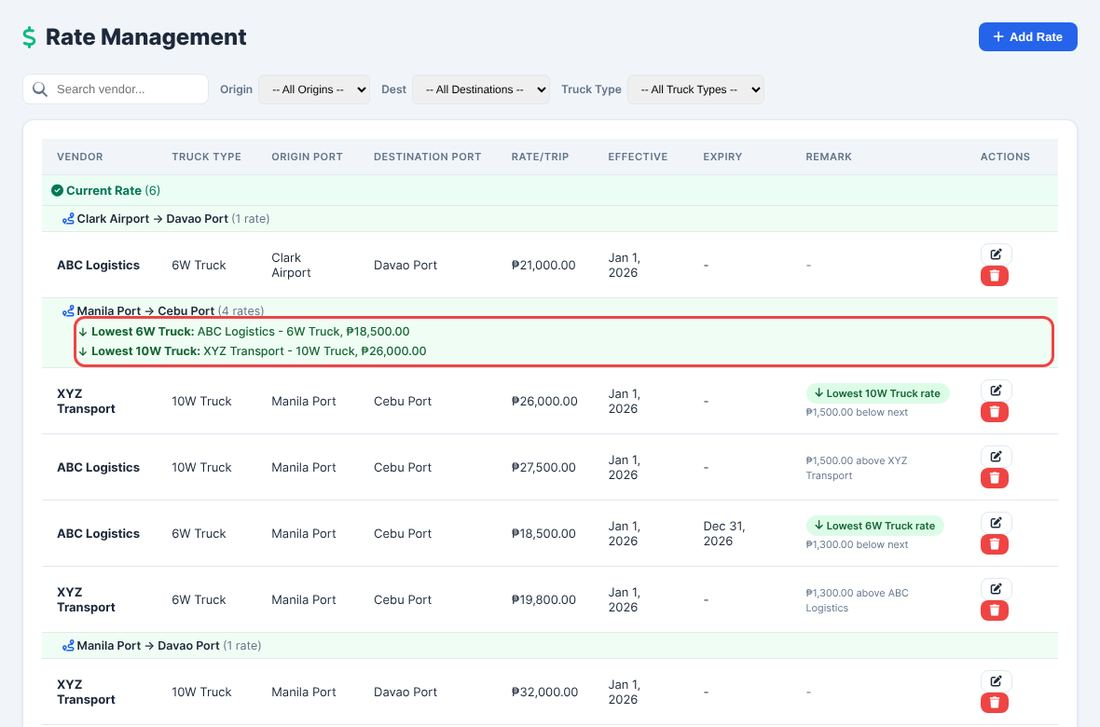
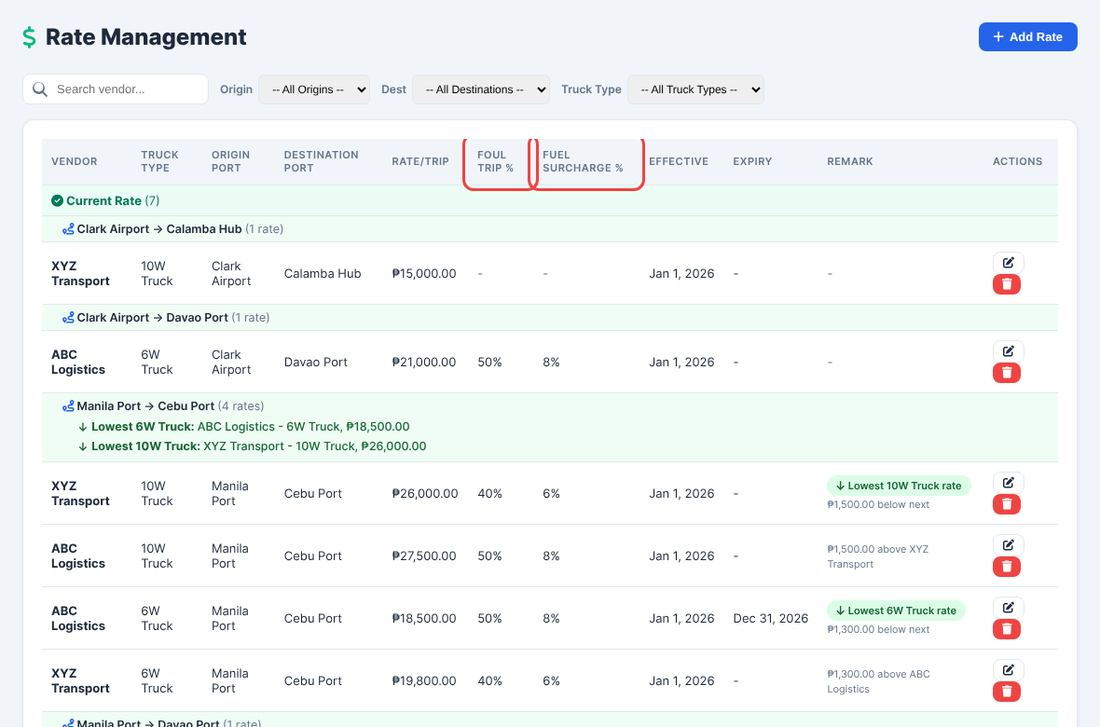
Rate Management: show Foul Trip % and Fuel Surcharge % columns
Widen group/empty rows to 11 columns, tidy header wrapping, and refresh the
User Guide text and screenshot.

diff --git a/backend/static/index.html b/backend/static/index.html
@@ -97,6 +97,11 @@ tr:hover td{background:#F8FAFC}
 .pend-vsug small{display:block;color:var(--muted);font-size:12px;margin-top:2px}
 .pend-vsug.ok{background:#ECFDF5;border:1px solid #A7F3D0;color:#065F46}.pend-vsug.ok i{color:#D97706;margin-top:2px}
 .pend-vsug.muted{background:var(--bg);border:1px solid var(--bdr);color:var(--txt)}.pend-vsug.muted i{color:var(--muted);margin-top:2px}
+#pg-rates th{white-space:normal;padding:10px 10px;line-height:1.3}
+#rTbl td{padding:10px 10px}
+#rTbl td:nth-child(n+5):nth-child(-n+9){white-space:nowrap}
+#rTbl td:nth-child(10){min-width:160px}
+#rTbl td:nth-child(10) .badge{white-space:nowrap}
 .stat-click{cursor:pointer}
 .stat-click:hover{box-shadow:var(--sh2);transform:translateY(-1px)}
 .stat-click.on{border-color:var(--pri);box-shadow:0 0 0 3px rgba(37,99,235,.15)}
@@ -339,7 +344,7 @@ body.scan-mode .layout{display:none}
 <section class="pg" id="pg-rates">
 <div class="pg-hdr"><h1><i class="fas fa-dollar-sign" style="color:var(--ok)"></i> Rate Management</h1><div class="acts"><button class="btn btn-p" onclick="showRateModal()"><i class="fas fa-plus"></i> Add Rate</button></div></div>
 <div class="fb"><input type="text" class="s-input" id="rSrch" placeholder="Search vendor..." oninput="loadRates()" style="width:200px"><div class="fg2"><label>Origin</label><select class="f-input" id="rOrg" onchange="loadRates()"></select></div><div class="fg2"><label>Dest</label><select class="f-input" id="rDst" onchange="loadRates()"></select></div><div class="fg2"><label>Truck Type</label><select class="f-input" id="rTT" onchange="loadRates()"></select></div></div>
-<div class="card"><div class="card-b"><div class="tw"><table><thead><tr><th>Vendor</th><th>Truck Type</th><th>Origin Port</th><th>Destination Port</th><th>Rate/Trip</th><th>Effective</th><th>Expiry</th><th>Remark</th><th>Actions</th></tr></thead><tbody id="rTbl"></tbody></table></div></div></div>
+<div class="card"><div class="card-b"><div class="tw"><table><thead><tr><th>Vendor</th><th>Truck Type</th><th>Origin Port</th><th>Destination Port</th><th>Rate/Trip</th><th>Foul Trip %</th><th>Fuel Surcharge %</th><th>Effective</th><th>Expiry</th><th>Remark</th><th>Actions</th></tr></thead><tbody id="rTbl"></tbody></table></div></div></div>
 </section>
 
 <!-- Vendor Evaluation -->
@@ -624,7 +629,7 @@ body.scan-mode .layout{display:none}
 <li><strong>Drop 2, 3, &hellip;</strong> are extra stops on the same trip, not separate trips: they are priced on the card of drop 1's destination &mdash; its <strong>Additional Destination Drop</strong> rate when the stop is listed there, otherwise its <strong>Default Rate</strong> (even when the stop is the Main Destination again). A later drop never gets Rate/Trip;</li>
 <li>a drop 1 whose destination has no card of its own &rarr; a card listing it as an Additional Destination Drop, otherwise the Default Rate.</li>
 </ul>The <strong>Foul Trip %</strong> (Foul Trips) and <strong>Fuel Surcharge %</strong> (Delivered requests only) are applied to that same rate.</li>
-<li>Use the search box and the Origin, Dest and <strong>Truck Type</strong> filters to find a rate; edit or delete it from the Actions column. Rates are grouped by origin &rarr; destination. When a pair has more than one rate, its heading lists the lowest rate for each truck type on its own line (e.g. <em>Lowest 10W: NJV - 10W, ₱15,000.00</em>), and the <strong>Remark</strong> column marks the cheapest vendor per truck type.</li>
+<li>Use the search box and the Origin, Dest and <strong>Truck Type</strong> filters to find a rate; edit or delete it from the Actions column. The table shows each rate's Rate/Trip, <strong>Foul Trip %</strong>, <strong>Fuel Surcharge %</strong>, Effective and Expiry dates. Rates are grouped by origin &rarr; destination. When a pair has more than one rate, its heading lists the lowest rate for each truck type on its own line (e.g. <em>Lowest 10W: NJV - 10W, ₱15,000.00</em>), and the <strong>Remark</strong> column marks the cheapest vendor per truck type.</li>
 <li>Rates feed the vendor sorting on Pending Allocation (cheapest first), the costs in Cost Analysis and the Foul Trip Cost on Foul Trip Approval.</li>
 </ol>
 <div class="g-shots"><figure class="g-shot"><a href="/guide/10-rates.jpg" target="_blank" rel="noopener" title="Open full size"><img src="/guide/10-rates.jpg" alt="Rate Management grouped by origin  destination, with the Truck Type filter (outlined) and the Remark column naming the cheapest vendor." loading="lazy"></a><figcaption><i class="fas fa-image"></i> Rate Management grouped by origin &rarr; destination, with the <strong>Truck Type</strong> filter (outlined) and the Remark column naming the cheapest vendor.</figcaption></figure><figure class="g-shot"><a href="/guide/10b-rate-form.jpg" target="_blank" rel="noopener" title="Open full size"><img src="/guide/10b-rate-form.jpg" alt="Add Rate form: the Main Destination is greyed out in the Additional Destination Drops list." loading="lazy"></a><figcaption><i class="fas fa-image"></i> Add Rate form: the Main Destination is greyed out in the Additional Destination Drops list.</figcaption></figure></div>
@@ -2560,6 +2565,7 @@ async function saveTruck(id){
 async function delTruck(id){if(!confirm('Delete truck?'))return;try{const res=await fetch('/api/trucks/'+id,{method:'DELETE'});if(!res.ok){const e=await res.json().catch(()=>({}));toast(e.detail||'Failed to delete','error');return}toast('Deleted');loadFleet()}catch(e){toast('Failed','error')}}
 
 // Rates
+function ratePct(v){if(v===null||v===undefined||v==='')return'<span style="color:var(--muted)">-</span>';const n=+v;return isNaN(n)?esc(String(v)):(Math.round(n*100)/100)+'%'}
 async function loadRates(){
   try{
     const v=document.getElementById('rSrch').value;
@@ -2575,7 +2581,7 @@ async function loadRates(){
     if(ttf){for(let i=data.length-1;i>=0;i--){if(String(data[i].truck_type_id)!==String(ttf))data.splice(i,1)}}
     const tb=document.getElementById('rTbl');
     const today=new Date().toISOString().slice(0,10);
-    const rowHtml=(r,remark)=>'<tr><td><strong>'+esc(r.vendor_name||'')+'</strong></td><td>'+esc(r.truck_type_name||'')+'</td><td>'+esc(r.origin_port_name||'')+'</td><td>'+esc(r.destination_port_name||'')+'</td><td>₱'+fmtN(r.rate_per_trip)+'</td><td>'+fmtDDate(r.effective_date)+'</td><td>'+fmtDDate(r.expiry_date)+'</td><td>'+(remark||'<span style="color:var(--muted)">-</span>')+'</td><td><button class="btn btn-sm btn-o" onclick="editRate('+JSON.stringify(r).replace(/"/g,'&quot;')+')"><i class="fas fa-edit"></i></button> <button class="btn btn-sm btn-d" onclick="delRate('+r.id+')"><i class="fas fa-trash"></i></button></td></tr>';
+    const rowHtml=(r,remark)=>'<tr><td><strong>'+esc(r.vendor_name||'')+'</strong></td><td>'+esc(r.truck_type_name||'')+'</td><td>'+esc(r.origin_port_name||'')+'</td><td>'+esc(r.destination_port_name||'')+'</td><td>₱'+fmtN(r.rate_per_trip)+'</td><td>'+ratePct(r.foul_trip_pct)+'</td><td>'+ratePct(r.fuel_surcharge_pct)+'</td><td>'+fmtDDate(r.effective_date)+'</td><td>'+fmtDDate(r.expiry_date)+'</td><td>'+(remark||'<span style="color:var(--muted)">-</span>')+'</td><td><button class="btn btn-sm btn-o" onclick="editRate('+JSON.stringify(r).replace(/"/g,'&quot;')+')"><i class="fas fa-edit"></i></button> <button class="btn btn-sm btn-d" onclick="delRate('+r.id+')"><i class="fas fa-trash"></i></button></td></tr>';
     /* Second grouping: rates sharing an origin -> destination pair sit together.
        When a pair has more than one rate, the Remark column names the cheapest
        vendor for each truck type (rates of different truck types are not compared). */
@@ -2608,7 +2614,7 @@ async function loadRates(){
           lows.sort((a,b)=>a.tt.localeCompare(b.tt,undefined,{numeric:true}));
           if(lows.length)headExtra='<div class="rate-lows">'+lows.map(l=>'<div class="rate-low"><i class="fas fa-arrow-down"></i> <strong>Lowest '+l.tt+':</strong> '+l.txt+'</div>').join('')+'</div>';
         }
-        out+='<tr><td colspan="9" style="background:'+accent+';font-weight:600;padding:6px 10px 6px 22px;font-size:12.5px"><i class="fas fa-route" style="color:var(--pri)"></i> '+esc(g[0].origin_port_name||'-')+' &rarr; '+esc(g[0].destination_port_name||'-')+' <span style="font-weight:400;color:var(--muted)">('+g.length+' rate'+(g.length>1?'s':'')+')</span>'+headExtra+'</td></tr>';
+        out+='<tr><td colspan="11" style="background:'+accent+';font-weight:600;padding:6px 10px 6px 22px;font-size:12.5px"><i class="fas fa-route" style="color:var(--pri)"></i> '+esc(g[0].origin_port_name||'-')+' &rarr; '+esc(g[0].destination_port_name||'-')+' <span style="font-weight:400;color:var(--muted)">('+g.length+' rate'+(g.length>1?'s':'')+')</span>'+headExtra+'</td></tr>';
         g.slice().sort((x,y)=>String(x.truck_type_name||'').localeCompare(String(y.truck_type_name||''))||(+x.rate_per_trip||0)-(+y.rate_per_trip||0)).forEach(r=>{out+=rowHtml(r,remarks.get(r.id))});
       });
       return out;
@@ -2618,15 +2624,15 @@ async function loadRates(){
       const hist=data.filter(r=>r.expiry_date&&String(r.expiry_date).slice(0,10)<today);
       let html='';
       if(cur.length){
-        html+='<tr><td colspan="9" style="background:#ECFDF5;font-weight:700;color:#047857;padding:8px 10px"><i class="fas fa-check-circle"></i> Current Rate <span style="font-weight:400;color:var(--mut)">('+cur.length+')</span></td></tr>';
+        html+='<tr><td colspan="11" style="background:#ECFDF5;font-weight:700;color:#047857;padding:8px 10px"><i class="fas fa-check-circle"></i> Current Rate <span style="font-weight:400;color:var(--mut)">('+cur.length+')</span></td></tr>';
         html+=groupHtml(cur,'#F0FDF4');
       }
       if(hist.length){
-        html+='<tr><td colspan="9" style="background:#FEF2F2;font-weight:700;color:#B91C1C;padding:8px 10px"><i class="fas fa-history"></i> Historical Rate <span style="font-weight:400;color:#B91C1C;opacity:.8">('+hist.length+')</span></td></tr>';
+        html+='<tr><td colspan="11" style="background:#FEF2F2;font-weight:700;color:#B91C1C;padding:8px 10px"><i class="fas fa-history"></i> Historical Rate <span style="font-weight:400;color:#B91C1C;opacity:.8">('+hist.length+')</span></td></tr>';
         html+=groupHtml(hist,'#FFF7F7');
       }
       tb.innerHTML=html;
-    }else{tb.innerHTML='<tr><td colspan="9" class="empty"><i class="fas fa-dollar-sign"></i><p>No rates found</p></td></tr>'}
+    }else{tb.innerHTML='<tr><td colspan="11" class="empty"><i class="fas fa-dollar-sign"></i><p>No rates found</p></td></tr>'}
   }catch(e){console.error(e)}
 }
 
